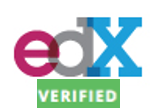
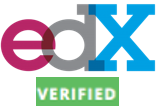
minor

diff --git a/certificates.html b/certificates.html
@@ -73,7 +73,7 @@
  
  
   
-              <a style="text-decoration:none" href="https://s3.amazonaws.com/verify.edx.org/downloads/7acef5767cd74e28b07ec112638241d2/Certificate.pdf"> <img src="figures/edx.png" width="100" height="60" alt="Coursera"/></a>
+              <a style="text-decoration:none" href="https://s3.amazonaws.com/verify.edx.org/downloads/7acef5767cd74e28b07ec112638241d2/Certificate.pdf"> <img src="figures/edx.png" width="70" height="42" alt="Coursera"/></a>
 		   
 	        <a  style="text-decoration:none" href="https://s3.amazonaws.com/verify.edx.org/downloads/7acef5767cd74e28b07ec112638241d2/Certificate.pdf"> <sup> <font size='4'>MITx - 6.00.1x Introduction to Computer Science and 
                   Programming Using Python</sup></a>
@@ -93,7 +93,7 @@
  <br/>
  
     
-              <a style="text-decoration:none" href="https://s3.amazonaws.com/verify.edx.org/downloads/cb977a59e4b544bd954bf7313c76e934/Certificate.pdf"> <img src="figures/edx.png" width="100" height="60" alt="Coursera"/></a>
+              <a style="text-decoration:none" href="https://s3.amazonaws.com/verify.edx.org/downloads/cb977a59e4b544bd954bf7313c76e934/Certificate.pdf"> <img src="figures/edx.png" width="70" height="42" alt="Coursera"/></a>
 		   
 	        <a  style="text-decoration:none" href="https://s3.amazonaws.com/verify.edx.org/downloads/cb977a59e4b544bd954bf7313c76e934/Certificate.pdf"> <sup> <font size='4'>DAT201x: Querying with Transact-SQL</sup></a>
  
